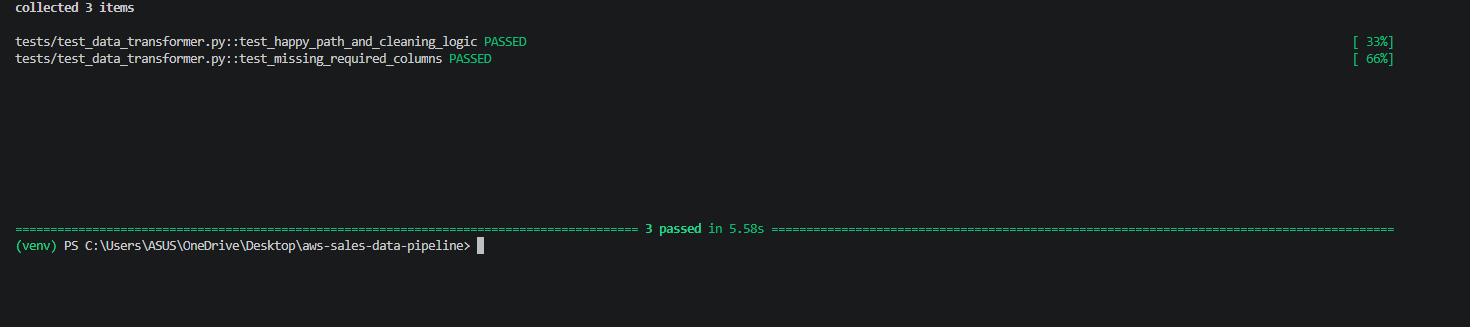
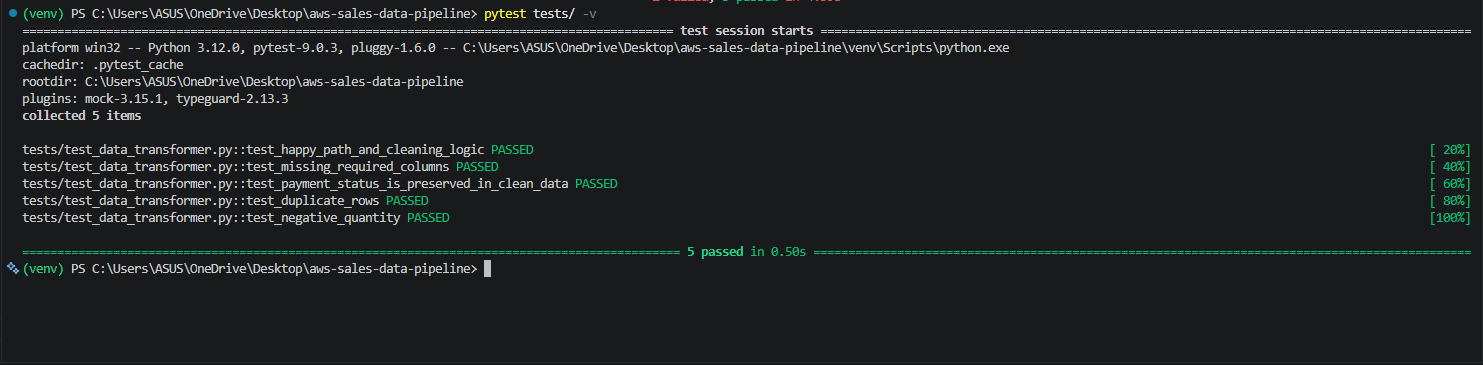
Add CloudWatch logs evidence and update test coverage to 5 cases

diff --git a/run_local.py b/run_local.py
@@ -2,34 +2,40 @@ import pandas as pd
 import sys
 import os
 
-# Thêm thư mục src vào hệ thống để gọi hàm của bạn
-sys.path.insert(0, os.path.abspath('src'))
+sys.path.insert(0, os.path.abspath("src"))
 from data_transformer import clean_and_transform_sales_data
 
-print("1. Đang bơm file data/sample_sales_data.csv vào hệ thống...")
-# Đọc file CSV thực tế mà đề bài cho
-df_raw = pd.read_csv('data/sample_sales_data.csv')
+print("1. Loading sample data...")
+df_raw = pd.read_csv("data/sample_sales_data.csv")
 
-print("2. Đang kích hoạt lõi lọc dữ liệu Pandas...\n")
-# Chạy qua "cỗ máy" bạn đã viết
+print("2. Running data cleaning and transformation...")
 df_clean, df_error = clean_and_transform_sales_data(df_raw)
 
-print("==== KẾT QUẢ VẬN HÀNH HỆ THỐNG ====")
-print(f"🔹 Tổng số dòng ban đầu: {len(df_raw)}")
-print(f"✅ Số dòng SẠCH (Hợp lệ): {len(df_clean)}")
-print(f"❌ Số dòng LỖI (Bị loại bỏ): {len(df_error)}")
+print("\n=== PIPELINE RESULT ===")
+print(f"Total input rows: {len(df_raw)}")
+print(f"Clean rows: {len(df_clean)}")
+print(f"Error rows: {len(df_error)}")
 
-print("\n==== BÁO CÁO NGHIỆP VỤ (Đáp ứng BR-3) ====")
-# 1. Doanh thu theo ngày
-daily_revenue = df_clean.groupby('order_date')['line_revenue'].sum()
-print("💰 Tổng doanh thu theo ngày:")
+print("\n=== BUSINESS METRICS ===")
+
+# Only paid transactions are counted for revenue
+paid_df = df_clean[df_clean["payment_status"].str.lower() == "paid"].copy()
+
+# Daily revenue
+daily_revenue = paid_df.groupby("order_date")["line_revenue"].sum()
+print("\n1. Daily Revenue")
 print(daily_revenue.to_string())
 
-# 2. Top sản phẩm bán chạy nhất
-top_products = df_clean.groupby('product_id')['quantity'].sum().sort_values(ascending=False).head(3)
-print("\n🏆 Top 3 Sản phẩm bán chạy nhất:")
+# Top products
+top_products = (
+    paid_df.groupby("product_id")["quantity"]
+    .sum()
+    .sort_values(ascending=False)
+    .head(3)
+)
+print("\n2. Top Products")
 print(top_products.to_string())
 
-# 3. Tỷ lệ thanh toán thành công
-success_rate = (df_clean['payment_status'] == 'paid').mean() * 100
-print(f"\n💳 Tỷ lệ thanh toán thành công: {success_rate:.2f}%")
+# Payment success rate
+payment_success_rate = (df_clean["payment_status"].str.lower() == "paid").mean() * 100
+print(f"\n3. Payment Success Rate: {payment_success_rate:.2f}%")

diff --git a/tests/test_data_transformer.py b/tests/test_data_transformer.py
@@ -68,3 +68,36 @@ def test_payment_status_is_preserved_in_clean_data():
     assert len(df_error) == 0
     assert "payment_status" in df_clean.columns
     assert set(df_clean["payment_status"]) == {"paid", "pending"}
+
+def test_duplicate_rows():
+    data = {
+        "order_id": ["ORD100", "ORD100"],
+        "product_id": ["PROD1", "PROD1"],
+        "order_date": ["2024-01-15", "2024-01-15"],
+        "quantity": [1, 1],
+        "unit_price": [10.0, 10.0],
+        "payment_status": ["paid", "paid"],
+    }
+
+    df = pd.DataFrame(data)
+    df_clean, df_error = clean_and_transform_sales_data(df)
+
+    assert len(df_clean) == 1
+    assert len(df_error) == 1
+
+
+def test_negative_quantity():
+    data = {
+        "order_id": ["ORD200"],
+        "product_id": ["PROD2"],
+        "order_date": ["2024-01-16"],
+        "quantity": [-1],
+        "unit_price": [10.0],
+        "payment_status": ["paid"],
+    }
+
+    df = pd.DataFrame(data)
+    df_clean, df_error = clean_and_transform_sales_data(df)
+
+    assert len(df_clean) == 0
+    assert len(df_error) == 1

diff --git a/README.md b/README.md
@@ -184,7 +184,15 @@ Example:
 * error_records: 4
 * status: COMPLETED
 
-### 7. CloudWatch Logs
+### 7.Business Metrics
+
+The pipeline also computes key business metrics:
+
+- Daily revenue
+- Top products
+- Payment success rate
+
+### 8. CloudWatch Logs
 
 Lambda execution logs confirm successful processing without runtime errors.
 
@@ -204,3 +212,22 @@ Lambda execution logs confirm successful processing without runtime errors.
 
 ### Metadata Tracking (DynamoDB)
 ![dynamodb](./evidence/05_dynamoDB.png)
+
+### Business Metrics
+![business-metrics](./evidence/06_business_metrics.png)
+
+### CloudWatch Logs
+
+![cloudwatch](evidence/07_cloudwatch.png)
+
+## Additional Documentation
+- [Architecture Design](./docs/architecture.md)
+- [Architecture Decision Records](./docs/adrs.md)
+- [Failure Scenarios](./docs/failure-scenarios.md)
+
+## Limitations & Future Improvements
+
+- Add retry mechanism for failed Lambda execution
+- Add CloudWatch alerts for failures
+- Improve idempotency to avoid duplicate processing
+- Integrate with Athena or BI tools for analytics
